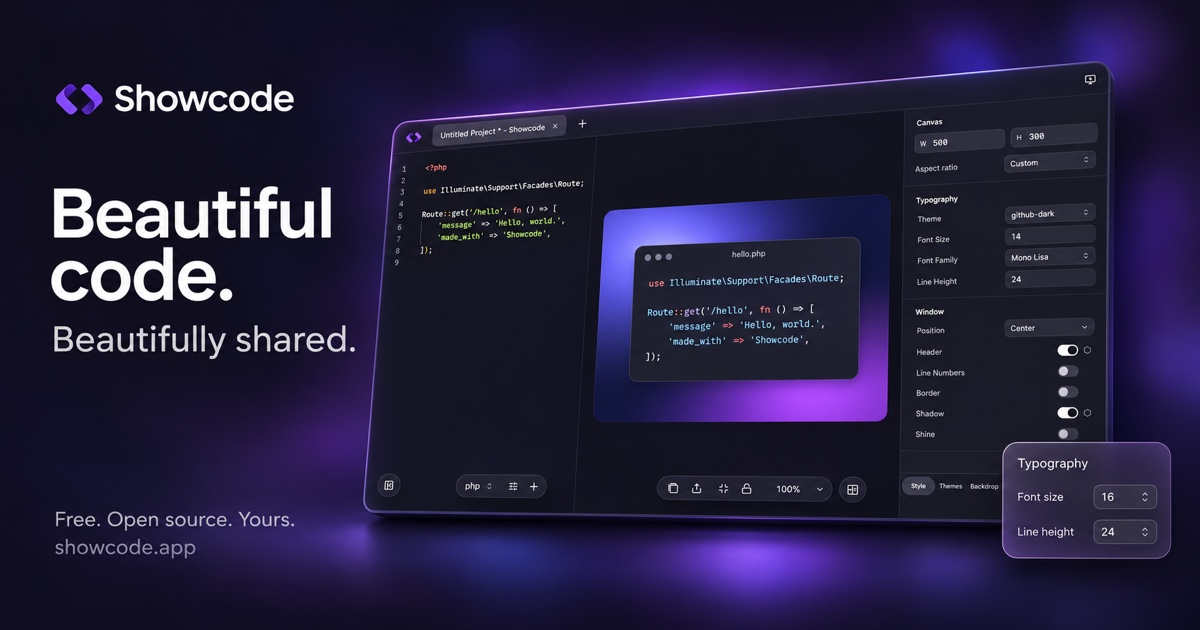
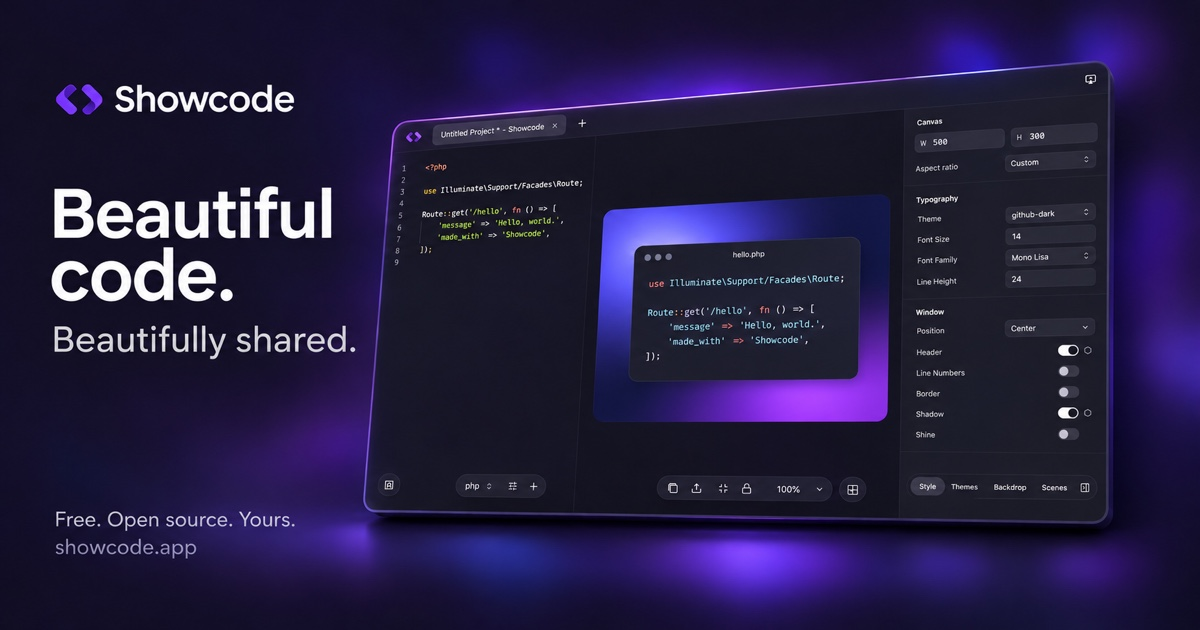
Remove the floating panel from the social preview

diff --git a/docs/artwork/social-preview.md b/docs/artwork/social-preview.md
@@ -20,3 +20,13 @@ Design: nearly black charcoal background, subtle diffuse violet/indigo atmospher
 Right 62% showcases a large crisp, believable Showcode desktop window occupying most of the right two thirds, with very slight perspective and softly rounded outer corners, realistic glass edge and shadow. Use the exact updated UI architecture: tab chrome at top, narrow code editor at left, beautiful purple/indigo gradient code canvas in center, compact inspector at right with W/H, Theme, Font size, and subtle switches; floating pill toolbars along the bottom. The hero code screenshot should be larger and clearly the focal point, using a short tasteful PHP snippet with colorful syntax and a tiny 'hello.php' title. No exaggerated texture or thick bevels.
 One small floating translucent rounded settings panel with compact fields can overlap the far lower right of the workspace, showcasing frosted glass and refined tactile controls without clutter; its text may read 'Typography', 'Font size', '16', 'Line height', '24'. Align it carefully and keep away from main headline.
 Quality: immaculate spacing, high-end software product photography / rendered interface composite, readable small UI, crisp large text, thoughtful negative space, calm and sophisticated. Restrained rather than flashy. Keep headline exactly spelled; no other marketing claims, no invented platform badges, no arbitrary icons, no duplicate main windows, no watermarks.
+
+## Refinement
+
+The final artwork removes the detached Typography panel, leaving the main application window as the only product visual. The original generation prompt above records the first version; this edit supersedes its floating-panel direction.
+
+Edit prompt:
+
+Edit this existing Showcode social image with one focused change: completely remove the separate floating 'Typography' settings popover in the bottom-right foreground, including its rounded glass box, shadow, and the 'Font size', '16', 'Line height', and '24' controls. Reconstruct the area it covered: continue the main application window's inspector and its bottom pill toolbar naturally, and the dark violet background outside the window. The only product visual should be the main Showcode application window. Keep everything else unchanged: exact logo and Showcode wordmark, headline 'Beautiful code.' and 'Beautifully shared.', footer 'Free. Open source. Yours.' and 'showcode.app', their typography and placement, window perspective and dimensions, the code screenshot, purple lighting, and overall layout. Preserve the built-in Typography section inside the right sidebar of the main window; remove ONLY the detached foreground popover. Do not add or replace it with any new inset, card, panel, or decoration. Preserve the existing wide aspect ratio.
+
+A final accuracy pass restored the inspector's bottom navigation to Style, Themes, Backdrop, Scenes, and its sidebar-collapse icon, using the real application screenshot as reference.
